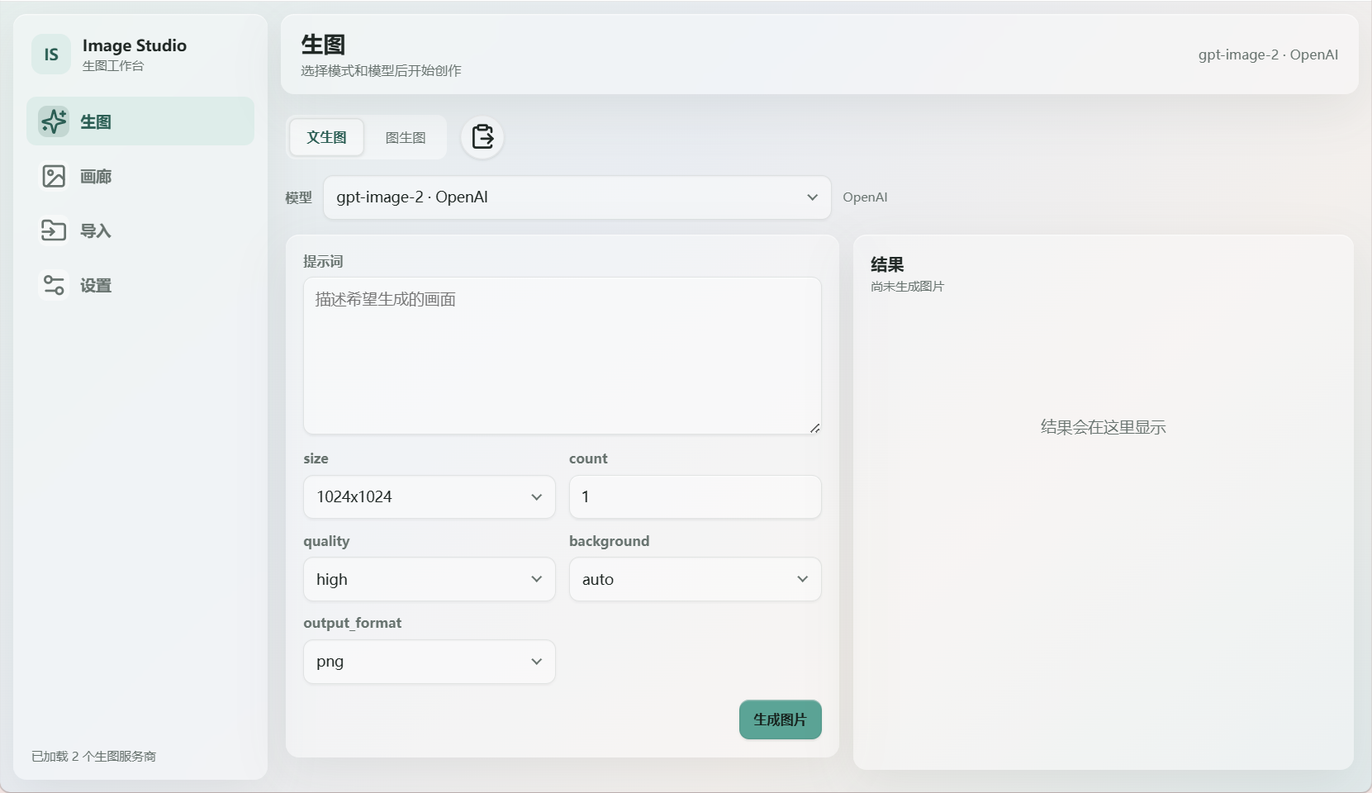
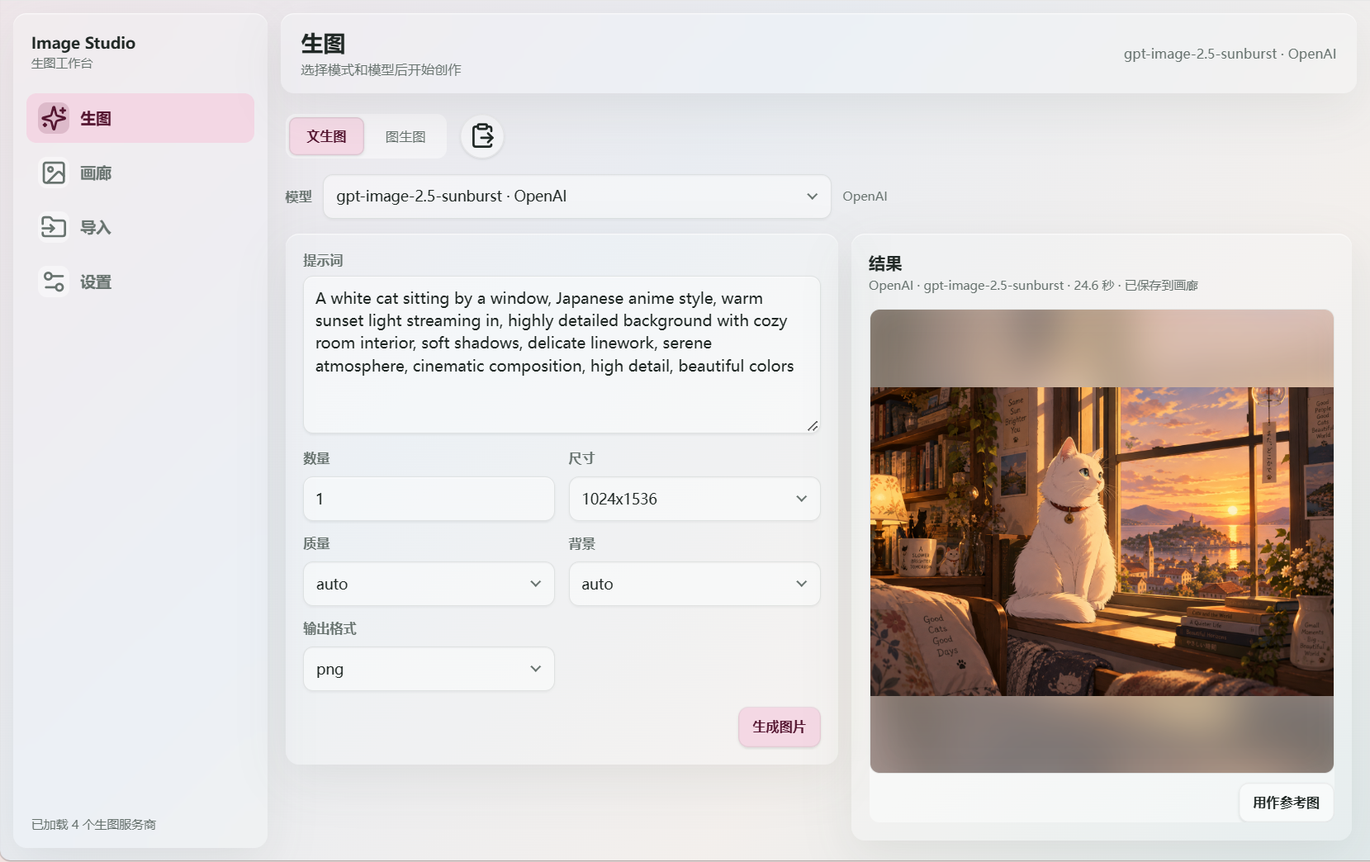
release: prepare Image Studio 1.4.1

diff --git a/pages/image-studio/index.html b/pages/image-studio/index.html
@@ -28,19 +28,19 @@
     })();
   </script>
   <script src="/api/plugin/page/bridge-sdk.js"></script>
-  <script src="./appearance.js?v=1.4.1-dev.1"></script>
+  <script src="./appearance.js?v=1.4.1"></script>
   <link rel="stylesheet" href="./vendor/photoswipe/photoswipe.css?v=5.4.4" />
-  <link rel="stylesheet" href="./app.css?v=1.4.1-dev.1" />
-  <link rel="stylesheet" href="./library.css?v=1.4.1-dev.1" />
-  <link rel="stylesheet" href="./sortable.css?v=1.4.1-dev.1" />
-  <link rel="stylesheet" href="./detail-swipe.css?v=1.4.1-dev.1" />
-  <link rel="stylesheet" href="./select.css?v=1.4.1-dev.1" />
-  <link rel="stylesheet" href="./appearance.css?v=1.4.1-dev.1" />
-  <link rel="stylesheet" href="./controls.css?v=1.4.1-dev.1" />
-  <link rel="stylesheet" href="./novelai/controls.css?v=1.4.1-dev.1" />
-  <link rel="stylesheet" href="./comfyui/controls.css?v=1.4.1-dev.1" />
-  <link rel="stylesheet" href="./comfyui/node-rules.css?v=1.4.1-dev.1" />
-  <link rel="stylesheet" href="./tooltip.css?v=1.4.1-dev.1" />
+  <link rel="stylesheet" href="./app.css?v=1.4.1" />
+  <link rel="stylesheet" href="./library.css?v=1.4.1" />
+  <link rel="stylesheet" href="./sortable.css?v=1.4.1" />
+  <link rel="stylesheet" href="./detail-swipe.css?v=1.4.1" />
+  <link rel="stylesheet" href="./select.css?v=1.4.1" />
+  <link rel="stylesheet" href="./appearance.css?v=1.4.1" />
+  <link rel="stylesheet" href="./controls.css?v=1.4.1" />
+  <link rel="stylesheet" href="./novelai/controls.css?v=1.4.1" />
+  <link rel="stylesheet" href="./comfyui/controls.css?v=1.4.1" />
+  <link rel="stylesheet" href="./comfyui/node-rules.css?v=1.4.1" />
+  <link rel="stylesheet" href="./tooltip.css?v=1.4.1" />
 </head>
 <body>
   <main class="app-shell quiet-glass-background">
@@ -279,32 +279,32 @@
       window.__reportImageStudioPageError(false);
     });
   </script>
-  <script src="./tooltip.js?v=1.4.1-dev.1" onerror="window.__reportImageStudioPageError(true)"></script>
+  <script src="./tooltip.js?v=1.4.1" onerror="window.__reportImageStudioPageError(true)"></script>
   <script src="./vendor/photoswipe/photoswipe.umd.min.js?v=5.4.4"></script>
   <script src="./vendor/exifreader/exif-reader.js?v=4.44.1"></script>
   <script src="./vendor/lucide/icons.js?v=0.468.0-studio2"></script>
-  <script src="./image-placeholder.js?v=1.4.1-dev.1" onerror="window.__reportImageStudioPageError(true)"></script>
-  <script src="./media-objects.js?v=1.4.1-dev.1" onerror="window.__reportImageStudioPageError(true)"></script>
+  <script src="./image-placeholder.js?v=1.4.1" onerror="window.__reportImageStudioPageError(true)"></script>
+  <script src="./media-objects.js?v=1.4.1" onerror="window.__reportImageStudioPageError(true)"></script>
   <script src="./vendor/js-sha256/sha256.min.js?v=0.11.1"></script>
-  <script src="./hash.js?v=1.4.1-dev.1" onerror="window.__reportImageStudioPageError(true)"></script>
-  <script src="./gallery-preferences.js?v=1.4.1-dev.1" onerror="window.__reportImageStudioPageError(true)"></script>
-  <script src="./select.js?v=1.4.1-dev.1" onerror="window.__reportImageStudioPageError(true)"></script>
-  <script src="./sortable.js?v=1.4.1-dev.1" onerror="window.__reportImageStudioPageError(true)"></script>
-  <script src="./dialog-motion.js?v=1.4.1-dev.1" onerror="window.__reportImageStudioPageError(true)"></script>
-  <script src="./components/presentation.js?v=1.4.1-dev.1" onerror="window.__reportImageStudioPageError(true)"></script>
-  <script src="./components/modal.js?v=1.4.1-dev.1" onerror="window.__reportImageStudioPageError(true)"></script>
-  <script src="./gallery/metadata.js?v=1.4.1-dev.1" onerror="window.__reportImageStudioPageError(true)"></script>
-  <script src="./gallery/metadata-markup.js?v=1.4.1-dev.1" onerror="window.__reportImageStudioPageError(true)"></script>
-  <script src="./comfyui/node-rules.js?v=1.4.1-dev.1" onerror="window.__reportImageStudioPageError(true)"></script>
-  <script src="./gallery/imports.js?v=1.4.1-dev.1" onerror="window.__reportImageStudioPageError(true)"></script>
-  <script src="./gallery/controller.js?v=1.4.1-dev.1" onerror="window.__reportImageStudioPageError(true)"></script>
-  <script src="./detail-swipe.js?v=1.4.1-dev.1" onerror="window.__reportImageStudioPageError(true)"></script>
-  <script src="./backdrop.js?v=1.4.1-dev.1" onerror="window.__reportImageStudioPageError(true)"></script>
-  <script src="./viewer-backdrop.js?v=1.4.1-dev.1" onerror="window.__reportImageStudioPageError(true)"></script>
-  <script src="./settings/external-sources.js?v=1.4.1-dev.1" onerror="window.__reportImageStudioPageError(true)"></script>
-  <script src="./novelai/controls.js?v=1.4.1-dev.1" onerror="window.__reportImageStudioPageError(true)"></script>
-  <script src="./comfyui/controls.js?v=1.4.1-dev.1" onerror="window.__reportImageStudioPageError(true)"></script>
-  <script src="./settings/controller.js?v=1.4.1-dev.1" onerror="window.__reportImageStudioPageError(true)"></script>
-  <script src="./app.js?v=1.4.1-dev.1" onerror="window.__reportImageStudioPageError(true)"></script>
+  <script src="./hash.js?v=1.4.1" onerror="window.__reportImageStudioPageError(true)"></script>
+  <script src="./gallery-preferences.js?v=1.4.1" onerror="window.__reportImageStudioPageError(true)"></script>
+  <script src="./select.js?v=1.4.1" onerror="window.__reportImageStudioPageError(true)"></script>
+  <script src="./sortable.js?v=1.4.1" onerror="window.__reportImageStudioPageError(true)"></script>
+  <script src="./dialog-motion.js?v=1.4.1" onerror="window.__reportImageStudioPageError(true)"></script>
+  <script src="./components/presentation.js?v=1.4.1" onerror="window.__reportImageStudioPageError(true)"></script>
+  <script src="./components/modal.js?v=1.4.1" onerror="window.__reportImageStudioPageError(true)"></script>
+  <script src="./gallery/metadata.js?v=1.4.1" onerror="window.__reportImageStudioPageError(true)"></script>
+  <script src="./gallery/metadata-markup.js?v=1.4.1" onerror="window.__reportImageStudioPageError(true)"></script>
+  <script src="./comfyui/node-rules.js?v=1.4.1" onerror="window.__reportImageStudioPageError(true)"></script>
+  <script src="./gallery/imports.js?v=1.4.1" onerror="window.__reportImageStudioPageError(true)"></script>
+  <script src="./gallery/controller.js?v=1.4.1" onerror="window.__reportImageStudioPageError(true)"></script>
+  <script src="./detail-swipe.js?v=1.4.1" onerror="window.__reportImageStudioPageError(true)"></script>
+  <script src="./backdrop.js?v=1.4.1" onerror="window.__reportImageStudioPageError(true)"></script>
+  <script src="./viewer-backdrop.js?v=1.4.1" onerror="window.__reportImageStudioPageError(true)"></script>
+  <script src="./settings/external-sources.js?v=1.4.1" onerror="window.__reportImageStudioPageError(true)"></script>
+  <script src="./novelai/controls.js?v=1.4.1" onerror="window.__reportImageStudioPageError(true)"></script>
+  <script src="./comfyui/controls.js?v=1.4.1" onerror="window.__reportImageStudioPageError(true)"></script>
+  <script src="./settings/controller.js?v=1.4.1" onerror="window.__reportImageStudioPageError(true)"></script>
+  <script src="./app.js?v=1.4.1" onerror="window.__reportImageStudioPageError(true)"></script>
 </body>
 </html>

diff --git a/pages/image-studio/appearance.js b/pages/image-studio/appearance.js
@@ -344,8 +344,8 @@
         <div class="appearance-sample-image"><canvas id="appearanceSampleCanvas" width="0" height="0" tabindex="0" aria-label="取色图片" hidden></canvas><span class="appearance-sample-point" hidden aria-hidden="true"></span></div>
         <div class="appearance-sample-actions"><span id="appearanceSampleSwatch" aria-hidden="true"></span><output id="appearanceSampleValue" aria-live="polite">尚未取色</output><button type="button" id="appearanceSampleApply" class="quiet-button" disabled>使用颜色</button></div>
       </section>
-      <label class="appearance-range"><span>强调色饱和度<output data-appearance-value="accentSaturation"></output></span><input type="range" min="0" max="100" step="1" data-appearance-field="accentSaturation" aria-label="强调色饱和度"></label>
-      <label class="appearance-range"><span>玻璃不透明度<output data-appearance-value="glassOpacity"></output></span><input type="range" min="20" max="100" step="1" data-appearance-field="glassOpacity" aria-label="玻璃不透明度"></label>
+      <label class="appearance-range"><span>饱和度<output data-appearance-value="accentSaturation"></output></span><input type="range" min="0" max="100" step="1" data-appearance-field="accentSaturation" aria-label="饱和度"></label>
+      <label class="appearance-range"><span>不透明度<output data-appearance-value="glassOpacity"></output></span><input type="range" min="20" max="100" step="1" data-appearance-field="glassOpacity" aria-label="不透明度"></label>
       <div id="appearanceResetConfirmation" class="appearance-reset-confirmation" role="group" aria-label="恢复默认主题" hidden><span>恢复默认主题？</span><div><button type="button" class="quiet-button" data-appearance-reset="cancel">取消</button><button type="button" class="quiet-button" data-appearance-reset="confirm">恢复</button></div></div>
       <p class="appearance-status" role="status" aria-live="polite"></p>
       <div class="field appearance-gallery-sort"><label for="gallerySort">画廊排序方式</label><select id="gallerySort"><option value="created">按创建时间</option><option value="latest_content">按最新内容</option></select></div>

diff --git a/main.py b/main.py
@@ -62,7 +62,7 @@ AGENT_RESULT_RECOVERY_EXTRA_KEY = "_image_studio_result_recovery"
     PLUGIN_NAME,
     "econeco",
     "多服务商 AI 生图与图库工作台，支持 OpenAI、Gemini、ComfyUI 工作流、NovelAI 官方、NAI 第三方及自定义接口。支持对话生图改图、并发批量生成、图片参数导入与工作流复现，可扫描 nai-image 插件图库及自定义目录，统一浏览和管理图片。WebUI 适配桌面与手机。",
-    "1.4.1-dev.1",
+    "1.4.1",
 )
 class ImageStudioPlugin(Star):
     """Own Image Studio configuration, generation, gallery, and tool APIs."""

diff --git a/docs/DEVELOPMENT.md b/docs/DEVELOPMENT.md
@@ -6,7 +6,7 @@
 
 插件运行模块统一使用 `from astrbot.api import logger` 输出日志，以接入宿主日志管理；不自行通过 Python `logging.getLogger()` 创建日志器。
 
-当前开发版本为插件 `1.4.1-dev.1`，基于正式版 `1.4.0`。沿用正式数据库 **v4**：`PRAGMA user_version=4`，不新增 `schema_meta` 开发标记或结构迁移。旧正式库及最终开发库的升级路径保持 1.4.0 的约定。本阶段优化 LLM 工具指引、能力契约、ComfyUI 对话任务查询与交付失败恢复；升级后需在当前人格启用新增的 `image_studio_task` 工具。ComfyUI 的既有基础能力已完成真实生图测试，本阶段新增链路使用隔离假客户端验证；NovelAI 官方仍需可用账户完成成功生图验证。
+当前正式版本为插件 `1.4.1`。沿用 1.4.0 的正式数据库 **v4**：`PRAGMA user_version=4`，不新增 `schema_meta` 开发标记或结构迁移。旧正式库及最终开发库的升级路径保持 1.4.0 的约定。本版优化 LLM 工具说明、参数查询、ComfyUI 对话任务查询与交付失败恢复；升级后需在当前人格启用新增的 `image_studio_task` 工具，聊天生图命令改用 `/istudio`。ComfyUI 的既有基础能力已完成真实生图测试，本版新增链路使用隔离假客户端验证，版本正式化不代表新增实机验证；NovelAI 官方仍需可用账户完成成功生图验证。
 
 官方协议构造与解析集中在 `backend/providers/novelai/protocol.py`，不依赖完整第三方 SDK。`GeneratedImage.effective_parameters` 通过 `generation_images.supplemental_json.effective_request` 保存经过记录策略过滤的实际参数；原始请求仍保留在生成记录上。图片元数据解析器版本为 12；ComfyUI 内置与用户规则的指纹独立于解析器版本，参与元数据缓存和导入编辑版本校验。
 
@@ -14,11 +14,11 @@
 
 ComfyUI 架构、工作流绑定、任务恢复与范围见 [ComfyUI 接入](COMFYUI_IMPLEMENTATION.md)。`backend/providers/comfyui/client.py` 负责原生协议，`backend/providers/comfyui/workflows.py` 负责执行图和绑定，`backend/providers/comfyui/job_store.py` 保存修订/任务/临时文件，`backend/generation/comfyui_runtime.py` 接入现有生成与图库流程。运行中任务不受浏览器连接生命周期影响。
 
-## 当前开发版本与正式基线
+## 当前正式版本与数据格式
 
 | 标识 | 当前值 | 含义 |
 | --- | --- | --- |
-| 插件版本 | `1.4.1-dev.1` | `metadata.yaml` 与 `main.py` 注册版本相同，正式基线为 `1.4.0` |
+| 插件版本 | `1.4.1` | `metadata.yaml`、`main.py` 注册版本和自有前端资源缓存标识一致 |
 | 数据库正式版本 | `4` | `PRAGMA user_version=4`，不含 `schema_meta` |
 | 配置格式版本 | `2` | `studio_config.json` 的 `schema_version`，与数据库版本独立 |
 | 图片解析器版本 | `12` | 控制派生元数据回填，与数据库结构版本独立 |
@@ -30,11 +30,11 @@ ComfyUI 架构、工作流绑定、任务恢复与范围见 [ComfyUI 接入](COM
 
 本地图片的当前目录为 `images/assets` 和 `images/thumbnails`，数据库文件继续使用 `history.sqlite3`。首次初始化通过 `backend/database/migrations/images_layout.py` 兼容旧 `history/assets`、`history/thumbnails`；该转换只更新文件布局与路径，不增加数据库修订或修改插件版本。它与 `schema.py` 的数据库版本迁移分别处理，顺序与恢复要求见下文。
 
-历史版本对应关系：插件 1.0.0 使用数据库 v1，1.1.0 和 1.2.0 使用数据库 v2；1.3.0 开发后期使用 `3-dev.1`，后续正式版转换为 v3。1.3.2 及存储优化前的 `1.4.0-dev.1` 使用 v3；共享正文存储使用 4-dev.1，图组标题扩展为最终 4-dev.2，1.4.0 正式版使用 v4。插件版本、数据库版本、配置格式版本和解析器版本分别维护。
+历史版本对应关系：插件 1.0.0 使用数据库 v1，1.1.0 和 1.2.0 使用数据库 v2；1.3.0 开发后期使用 `3-dev.1`，后续正式版转换为 v3。1.3.2 及存储优化前的 `1.4.0-dev.1` 使用 v3；共享正文存储使用 4-dev.1，图组标题扩展为最终 4-dev.2，1.4.0 和 1.4.1 正式版使用 v4。插件版本、数据库版本、配置格式版本和解析器版本分别维护。
 
 ## 升级与开发库转换
 
-| 当前数据库 | 1.4.0 正式版的处理 |
+| 当前数据库 | 1.4.1 正式版的处理（沿用 1.4.0） |
 | --- | --- |
 | 空库 | 创建正式 v4，不备份空库 |
 | 正式 v1（1.0.0） | 核验、备份，在一个事务中执行 `v1 → v2 → v3 → v4` |
@@ -63,7 +63,7 @@ data/plugin_data/astrbot_plugin_image_studio/backups/
 
 自动备份只包含数据库，**不包含配置和图片文件**。升级前应停止 AstrBot，备份完整插件数据目录；不要只复制运行中的主 `.sqlite3` 文件而忽略 WAL 数据。
 
-回退应同时恢复升级前代码与完整数据副本。不要让旧版插件打开正式 v4 库，也不要把自动备份覆盖到正在运行的数据库上；数据库备份不包含旧任务目录转为共享文件后的文件布局变化，回退尤其需要完整目录副本。不存在自动降级迁移。
+回退应同时恢复升级前代码与完整数据副本。不要让不支持正式 v4 的旧版插件打开 v4 库，也不要把自动备份覆盖到正在运行的数据库上；数据库备份不包含旧任务目录转为共享文件后的文件布局变化，回退尤其需要完整目录副本。不存在自动降级迁移。
 
 ### 图片目录兼容迁移
 
@@ -71,7 +71,7 @@ data/plugin_data/astrbot_plugin_image_studio/backups/
 
 提交成功后才移除已经核验的旧副本和空目录；`history/` 下的其他用户文件保留。迁移日志用于中断续跑，目标已存在且内容相同的文件可以复用；不把中间状态当作完成，也不通过清空目录解决冲突。旧图库资产编号、元数据和授权关系保持原值。存储健康同时识别 `images/` 与可能残留的旧目录，硬链接分配空间去重统计。
 
-测试需覆盖新目录初始化、旧目录迁移、同内容目标复用、内容冲突、符号链接拒绝、事务回滚、中断后的重复启动，以及迁移后的图库原图、缩略图和 ComfyUI 结果读取。文件布局变化不由 `PRAGMA user_version` 表示，不单独增加数据库修订；当前数据库为 v4，插件为 `1.4.1-dev.1`。
+测试需覆盖新目录初始化、旧目录迁移、同内容目标复用、内容冲突、符号链接拒绝、事务回滚、中断后的重复启动，以及迁移后的图库原图、缩略图和 ComfyUI 结果读取。文件布局变化不由 `PRAGMA user_version` 表示，不单独增加数据库修订；当前数据库为 v4，插件为 `1.4.1`。
 
 ## 外部图库维护
 
@@ -94,7 +94,7 @@ ComfyUI 两份内置规则集中在 `backend/comfyui/rules/`：`prompt_analysis.
 
 `metadata/comfyui/user_rules.py` 负责规范化、端口核验和不可变规则集；使用 ContextVar 在每次仓储操作及 worker 线程中固定规则快照，不依赖全局可变用户配置。规则保存原子写入且检查请求 revision；同解析器版本的不同规则指纹也会使缓存过期。详情即时投影、后台维护持久化派生数据，不改写原图或人工覆盖。新增内置规则需提供来源依据与回归样例，不能仅根据一次显示值猜测复杂节点逻辑。
 
-1. 当前开发版 `1.4.1-dev.1` 沿用 1.4.0 的正式数据库 v4，包含共享正文存储和标题字段，已发布的 v1／v2／v3／v4 定义与转换契约需要保持不变。
+1. 当前正式版 `1.4.1` 沿用 1.4.0 的正式数据库 v4，包含共享正文存储和标题字段，已发布的 v1／v2／v3／v4 定义与转换契约需要保持不变。
 2. 普通 UI、指令或 Provider 修改不单独提高数据库修订；结构改变需要明确的新开发修订及受控迁移。
 3. 未来若新增数据库结构，开发库保留上一正式 `user_version=4`，使用明确的下一目标及开发修订；结构、正文编码和开发标记在同一事务内提交。没有结构变更时继续使用正式 v4。
 4. 后续插件开发版本使用 `下一版本-dev.N` 名称，与数据库版本独立。开发测试使用临时目录或独立数据副本，不与正式部署共用数据目录。
@@ -112,7 +112,7 @@ python scripts/verify.py --webui comfy_workspace comfy_gallery_run --browser chr
 python scripts/verify.py --webui comfy_gallery_run --browser webkit
 ```
 
-当前开发版构建默认输出 `dist/astrbot_plugin_image_studio-v1.4.1-dev.1.zip`，实际文件名跟随元数据版本；支持 `--root` 和 `--output`。构建读取当前工作区，不要求先提交，不执行数据库转换。
+当前正式版构建默认输出 `dist/astrbot_plugin_image_studio-v1.4.1.zip`，实际文件名跟随元数据版本；支持 `--root` 和 `--output`。构建读取当前工作区，不要求先提交，不执行数据库转换。
 
 安装包只包含运行模块、WebUI、使用说明和指定的演示截图，不包含真实数据、日志、开发数据库、测试或维护文档。新增运行模块或 README 图片时，同步更新构建白名单和测试；第三方静态资源的许可证随包保留。
 

diff --git a/CHANGELOG.md b/CHANGELOG.md
@@ -1,16 +1,20 @@
 # 更新记录
 
-## 1.4.1-dev.1 - 2026-09-19
+## 1.4.1 - 2026-09-19
+
+优化对话生图的模型选择、ComfyUI 任务查询和图片交付，统一命令入口，并减少对其他插件的影响。
 
 - 生图指令统一为 `/istudio`，取消 `/image_gen` 和 `/img` 的注册及别名，避免占用其他插件常用命令；帮助、错误提示及使用示例同步更新。
-- 基于正式版 `1.4.0` 开启后续开发，插件版本、注册版本和自有前端资源缓存标识统一为 `1.4.1-dev.1`。
 - 对话生图优先遵循用户指定模型，其次使用对应模式默认模型，仅在能力缺口明确时寻找替代；各查询方式统一标记默认模型，精简重复的工具说明与内置 NAI 指引，保留管理员自定义说明。
 - 处理同一条用户消息时，可重复使用已查询模型和生成模式的参数说明；修改生图参数值不需要重查，处理新消息或插件设置变更后需重查。多模型查询最多 20 项，相同模型的说明去重并保留输入对应关系。查询参数按模式过滤，工具默认值、中文字段名和严格数值校验与执行保持一致；ComfyUI 返回参考图编号、类型和必填要求。
-- ComfyUI 对话调用提交后返回任务编号，新增 `image_studio_task` 查询进度、取得结果和恢复原任务；支持当前会话最近任务查询及显式 `request_id` 幂等，等待或调用取消不终止后台任务，不因超时重复提交。
+- ComfyUI 对话调用提交后返回任务编号，新增 `image_studio_task` 查询进度、取得结果和恢复原任务；升级后需在当前人格的工具列表中启用该工具。支持当前会话最近任务查询及显式 `request_id` 幂等，等待或调用取消不终止后台任务，不因超时重复提交。
 - 调用前的模型选择与入参规则保留在各工具描述中，取消系统提示词注入和对 AstrBot／其他插件工具的移除；工具结果按当前状态提供下一步。说明明确标注参数名、适用范围与重新查询条件，缓存说明对应 AstrBot 的实际附图标记，避免内部简称造成理解偏差。
 - 生成结果先说明图片来自工具生图，再附预览；查看旧资产单独标记来源，资产使用说明仅针对本次返回的图片。发送结果只报告投递状态，不规定整个任务的结束方式或最终回复形式。
 - 查看、发送和复制已有资产无需查询模型。区分生成状态、结果不可用、资产登记失败和投递未确认；登记失败可重取已有结果，批量复制先统一校验，部分失败仍返回成功项路径。
-- 验证脚本将 AstrBot 源码目录与运行数据目录分离，固定使用临时运行目录。沿用正式数据库 v4，无数据库迁移。
+- 普通服务商已返回图片后，画廊登记或临时参考图清理失败不再丢弃生成结果；仍尝试提供原图的 `asset_id`，并独立说明保存或清理问题，避免重新生图。
+- “主题与显示”中的“强调色饱和度”和“玻璃不透明度”简化为“饱和度”和“不透明度”，无障碍标签同步更新。
+- 插件版本、注册版本和自有前端资源缓存标识统一为 `1.4.1`；沿用正式数据库 v4，从 1.4.0 升级不增加结构迁移。
+- 验证脚本将 AstrBot 源码目录与运行数据目录分离，固定使用临时运行目录，避免宿主导入时修改现有配置。
 
 ## 1.4.0 - 2026-09-19
 

diff --git a/README.md b/README.md
@@ -2,7 +2,7 @@
 
 在 AstrBot 中生成、编辑和管理图片。既能打开 WebUI 调整参数，也能在聊天中使用指令，或让 Agent 把生图作为任务中的一步，继续改图、拼接和制作其他作品。
 
-当前开发版本为 **1.4.1-dev.1**，基于正式版 **1.4.0** 继续开发。正式安装请使用 [Releases](https://github.com/Eco404/astrbot_plugin_image_studio/releases) 中的版本，完整变化见 [更新记录](CHANGELOG.md)。
+当前正式版本为 **1.4.1**。安装包见 [Releases](https://github.com/Eco404/astrbot_plugin_image_studio/releases)，完整变化见 [更新记录](CHANGELOG.md)。
 
 ![Image Studio 生图工作台](docs/images/generate.png)
 
@@ -35,9 +35,9 @@ https://github.com/Eco404/astrbot_plugin_image_studio
 
 也可以从 [Releases](https://github.com/Eco404/astrbot_plugin_image_studio/releases) 下载 ZIP 安装。安装后，在插件详情中打开 **Image Studio** 页面。
 
-从旧版升级前，请停止 AstrBot 并备份完整插件数据目录。1.4.0 将旧数据库迁移到正式 **v4**，保留图库、收藏、工作流、任务和人工编辑数据。支持从正式 v1／v2／v3 及已支持的最终开发库升级；最终开发库 4-dev.2 经核验和备份后转为 v4，不重复转换正文。较早的 4-dev.1 数据库需先使用末版开发代码（提交 `6153f83`）升级到 4-dev.2，再安装正式版。
+从旧版升级前，建议备份完整插件数据目录。
 
-当前 1.4.1-dev.1 沿用正式 v4，从 1.4.0 升级不新增数据库结构迁移。
+聊天生图指令已统一为 `/istudio`，不再注册 `/image_gen` 或 `/img`。
 
 本地图片统一保存在数据目录下的 `images/`。旧版 `history/assets` 和 `history/thumbnails` 会在首次启动时校验并迁入对应的 `images/` 子目录，无需手动移动。迁移可在中断后继续；遇到内容冲突或不安全的路径时会停止，保留原文件。
 

diff --git a/docs/STORAGE_LIFECYCLE.md b/docs/STORAGE_LIFECYCLE.md
@@ -1,6 +1,6 @@
 # 存储与维护
 
-当前开发版 `1.4.1-dev.1` 沿用插件 `1.4.0` 发布的正式数据库 **v4**，以 `PRAGMA user_version=4` 标记，不保留 `schema_meta`，本次版本切换不新增结构迁移。升级、备份及回退要求见 [开发与发布维护](DEVELOPMENT.md)。
+当前正式版 `1.4.1` 沿用插件 `1.4.0` 发布的正式数据库 **v4**，以 `PRAGMA user_version=4` 标记，不保留 `schema_meta`，从 1.4.0 升级不新增结构迁移。升级、备份及回退要求见 [开发与发布维护](DEVELOPMENT.md)。
 
 ## 图片目录
 
@@ -20,7 +20,7 @@ data/plugin_data/astrbot_plugin_image_studio/
 
 迁移日志 `.images-layout-migration.json` 保存文件清单与内容摘要，中断后再次启动会结合数据库中的路径重新核验并续跑，成功清理旧副本后移除日志；相同内容的目标文件可以复用，不覆盖内容不同的目标。旧 `history/` 下其他文件不属于本次迁移，保留原位。存储统计兼容新旧目录，避免迁移中断时遗漏文件占用；共享硬链接的实际分配空间仍只计算一次。
 
-这是图片布局与持久路径转换，数据库文件名仍为 `history.sqlite3`，目录迁移不增加结构修订；当前数据库为 v4，插件版本为 `1.4.1-dev.1`。外部图库原图路径不迁移，资产和图片编号保持原值。升级前仍应备份完整数据目录；回退时同时恢复代码、数据库和图片布局。
+这是图片布局与持久路径转换，数据库文件名仍为 `history.sqlite3`，目录迁移不增加结构修订；当前数据库为 v4，插件版本为 `1.4.1`。外部图库原图路径不迁移，资产和图片编号保持原值。升级前仍应备份完整数据目录；回退时同时恢复代码、数据库和图片布局。
 
 ## 正文与投影
 

diff --git a/docs/TESTING.md b/docs/TESTING.md
@@ -105,10 +105,12 @@ python scripts/verify.py --webui comfy_provider --browser webkit --timeout 900 -
 
 ```bash
 studio_repo="$PWD"
+studio_source_root="${ASTRBOT_SOURCE:-$(dirname "$studio_repo")/AstrBot}"
 studio_test_workdir="$(mktemp -d)"
 (
   cd "$studio_test_workdir"
-  PYTHONPATH="$(dirname "$studio_repo"):${ASTRBOT_ROOT:-$(dirname "$studio_repo")/AstrBot}" \
+  ASTRBOT_ROOT="$studio_test_workdir/astrbot-runtime" \
+    PYTHONPATH="$(dirname "$studio_repo"):$studio_source_root${PYTHONPATH:+:$PYTHONPATH}" \
     python -m pytest -q "$studio_repo/tests/backend/integration/test_capability_search_tool.py"
 )
 ```
